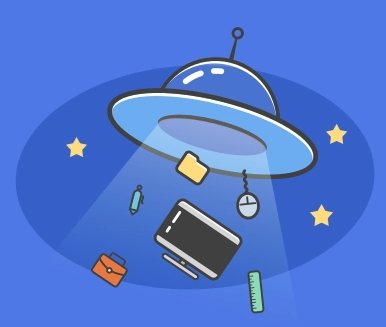
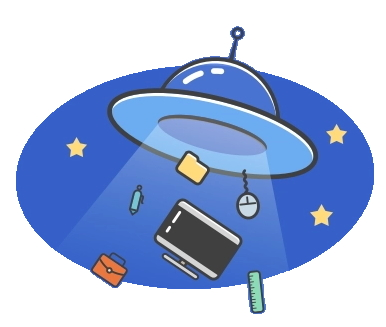
Final design update

diff --git a/index.html b/index.html
@@ -9,14 +9,14 @@
     <title>UFO</title>
 </head>
 
-<body style="background-color: blue;">
+<body style="background-color: #4E78E5;">
     <main style="display: inline-block; width: 50%; margin-top: 170px; margin-left: 25%;">
         <div style="width: 35%; float: left; margin-top: 100px;">
             <h1 style="color: white; font-size: 80px; margin: 0; font-family: fantasy; font-weight: normal;">404</h1>
             <p style="color: white; text-transform: uppercase; font-size: 36px; margin: 0; margin-bottom: 20px; font-family: fantasy;">Page not found</p>
             <a href="#" style="display: inline-block; color: white; text-decoration: none; font-size: 17px; font-family: Arial; border: 2px solid white; padding: 10px; padding-left: 30px; padding-right: 30px;  border-radius: 21px;">Go to home</a>
         </div>
-        <img style="width: 60%; float: right;" src="./img/ufo.jpg" alt="UFO lekste">
+        <img style="width: 60%; float: right;" src="./img/ufo.webp" alt="UFO lekste">
     </main>
 </body>
 
